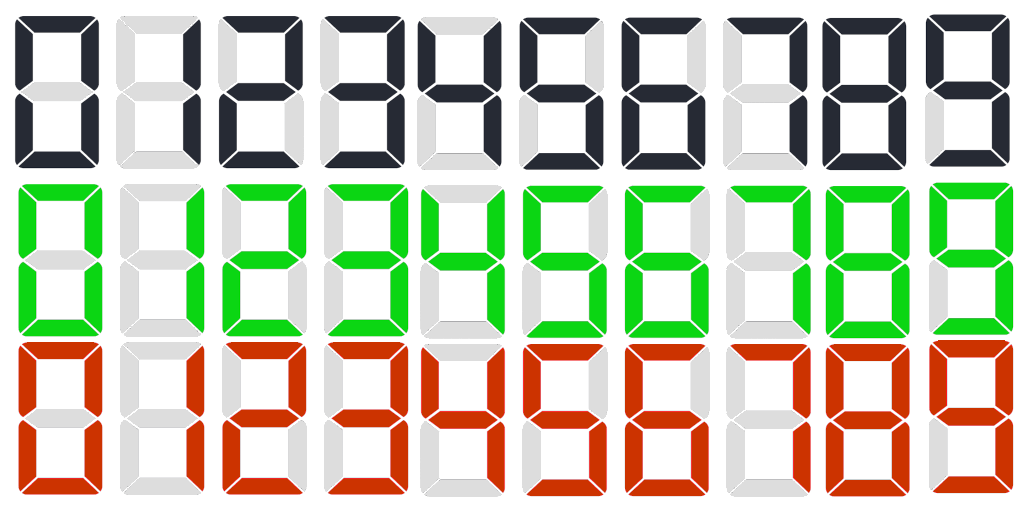
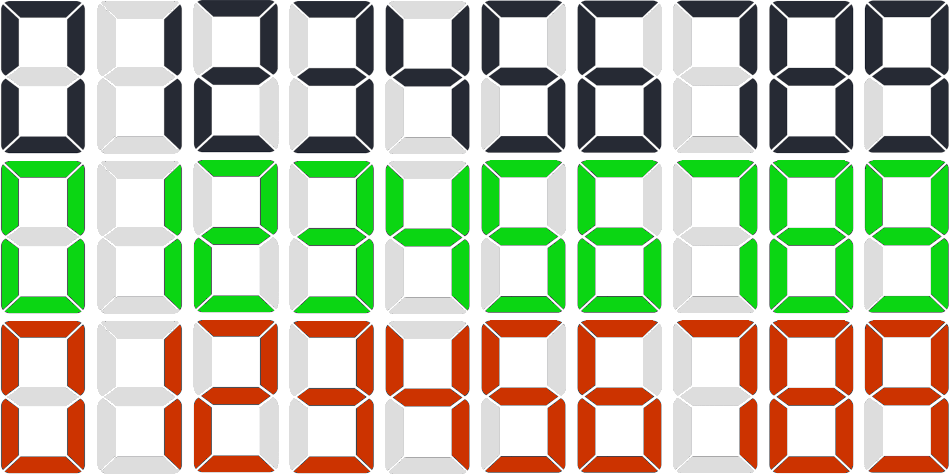
Add readme, improvements on numbers sprite image, improvements clean code

diff --git a/scripts.js b/scripts.js
@@ -6,7 +6,10 @@
  * por um arquivo css especifico para tal com o uso de classes.
  */
 
-const url = 'https://us-central1-ss-devops.cloudfunctions.net/rand?min=1&max=300';
+const minRange = 1;
+const maxRange = 300;
+
+const url = 'https://us-central1-ss-devops.cloudfunctions.net/rand?min='+minRange+'&max='+maxRange;
 const signboard = [
   document.getElementById('digit-one'), 
   document.getElementById('digit-two'), 
@@ -14,13 +17,40 @@ const signboard = [
 ];
 const tip = document.getElementById('tip');
 
-let matchNumber;
+let drawnNumber;
+
+
+/**
+ * Start the game
+ */
+async function startGame(){
+  drawnNumber = await getNumber()
+  console.log('Drawn Number: '+drawnNumber);
+}
+
+/**
+ * Send button function, set the signboard with input number
+ * and check result
+ */
+function send(){
+  let input = document.getElementById('number-input').value;
+  if(input > 0 && input < 999){
+    digitalScreen(input);
+    compareNumbers(input, drawnNumber);    
+  }
+  else{
+    for(element of signboard)
+    element.classList.add('red');
+    tip.innerHTML = 'ERRO: Fora do intervalo';
+    tip.style.color = '#CC3300';
+  }
+}
 
 /**
  * Request Drawn Number
  */
-async function getNumber(){
-  await fetch(url)
+ async function getNumber(){
+  return await fetch(url)
   .then(
     response => {
       if(response.status == 200){
@@ -35,25 +65,8 @@ async function getNumber(){
         endProgram();
       }
   })
-  .then(
-    res => {
-      matchNumber = res.value;
-      console.log('Drawn Number: '+matchNumber);
-    }
-  )
-  .catch(error => {
-    console.error(error);
-  })
-}
-
-/**
- * Send button function, set the signboard with input number
- * and check result
- */
-async function send(){
-  let input = document.getElementById('number-input').value;
-  digitalScreen(input);
-  compareNumbers(input);
+  .then(res => { return res.value;})
+  .catch(error => {console.error(error);})
 }
 
 /**
@@ -87,15 +100,15 @@ function digitalScreen(number){
  * If the numbers are the same end the program
  * either set tip as "É menor" or "É maior"
  */
-function compareNumbers(number){
-  if(number == matchNumber){
+function compareNumbers(numberOne,numberTwo){
+  if(numberOne == numberTwo){
     for(element of signboard)
       element.classList.add('green');
     tip.innerHTML = 'Você acertou!!!'
     tip.style.color = '#32BF00';   
     endProgram();
   }
-  else if (number< matchNumber)
+  else if (numberOne < numberTwo)
     tip.innerHTML = 'É maior'
   else tip.innerHTML = 'É menor'
 }

diff --git a/numbers.css b/numbers.css
@@ -11,18 +11,18 @@
   display: inline-block;
 }
 
-.zero{background-position: -10px -11px;}
-.one{background-position: -115px -11px;}
-.two{background-position: -216px -11px;}
-.three{background-position: -318px -11px;}
-.four{background-position: -415px -11px;}
-.five{background-position: -516px -11px;}
-.six{background-position: -618px -11px;}
-.seven {background-position: -723px -11px;}
-.eight {background-position: -820px -11px;}
-.nine {background-position: -925px -6px;}
-.green {background-position-y: -179px;}
-.red {background-position-y: -338px;}
+.zero{background-position: 0px 0px;}
+.one{background-position: -96px 0px;}
+.two{background-position: -192px 0px;}
+.three{background-position: -288px 0px;}
+.four{background-position: -384px 0px;}
+.five{background-position: -480px 0px;}
+.six{background-position: -576px 0px;}
+.seven {background-position: -672px 0px;}
+.eight {background-position: -768px 0px;}
+.nine {background-position: -864px 0px;}
+.green {background-position-y: -160px;}
+.red {background-position-y: -320px;}
 
 @media only screen and (max-width: 1000px)
 {

diff --git a/index.html b/index.html
@@ -5,7 +5,7 @@
     <link href="https://fonts.googleapis.com/css2?family=Montserrat&display=swap" rel="stylesheet">
     <meta name="viewport" content="width=device-width, initial-scale=1.0, maximum-scale=1.0 user-scalable=0">
   </head>
-  <body onload="getNumber()">
+  <body onload="startGame()">
     <div class="container">
       <p class="title orange-gradient">QUAL É O NÚMERO ?</p>
       <hr>

diff --git a/README.md b/README.md
@@ -1,0 +1,18 @@
+# Guess Number
+
+Esta é minha implementação de um teste prático para uma vaga de front-end.
+
+O desafio consiste em dado um número obtido pela requisição de uma API externa,
+fazer a implementação de um jogo de adivinhação de um número até 3 digitos.
+A cada tentativa é dado uma ajuda informando se o palpite é maior ou menor do
+que o número a ser adivinhado.
+
+Para exibição dos numeros deve ser usado uma simulação de um display digital de 7 
+segmentos. Para construção deste display foi utilizado uma sprite autoral com os
+os 10 digitos em 3 cores, preto, verde e vermelho. Com o uso de css cada numero é
+exibido de forma independente.
+
+A logica do programa consiste em fazer o request de um numero no carregamento
+da pagina e salva-lo em uma variavel.
+O mapeamento dos numeros na sprite e feito por um arquivo css especifico para
+manipular os numeros com o uso de classes.
